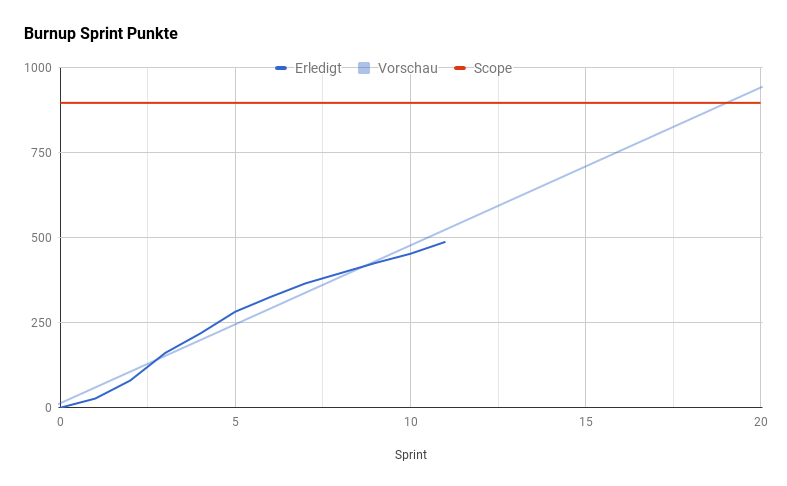
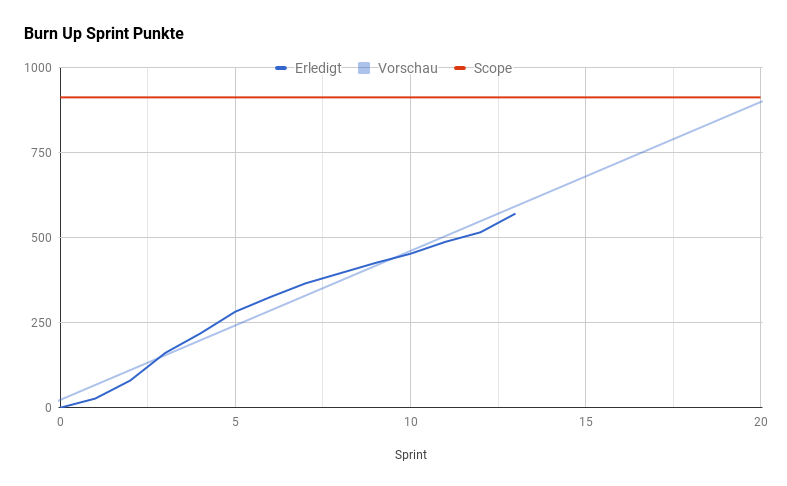
docs: update sprint overview after finishing sprint 13 (#641)
To finalize the sprint overview page adjusted burnup, burndown has to be added. Also due to lack of presentation the protocol and presentation emoji had to be removed.

This closes #560

diff --git a/docs/sprints.md b/docs/sprints.md
@@ -16,9 +16,9 @@
 | 10 | 2017-06-30 | *Sellout!* | [🎦](sprint-review/sprint_10_review.pdf) | [📝](protocols/2017-07-14-presentation-sprint10-imagic_PICSystem.md) | [📉](sprint-burndown-charts/sprint_10_burndown.png) | [☑](https://github.com/IMSmobile/app/milestone/10?closed=1) |
 | 11 | 2017-07-14 | *Upload to all the Archives!* | [🎦](sprint-review/sprint_11_review.pdf) | [📝](protocols/2017-07-28-presentation-sprint11-imagic_PICSystem.md) | [📉](sprint-burndown-charts/sprint_11_burndown.png) | [☑](https://github.com/IMSmobile/app/milestone/11?closed=1) |
 | 12 | 2017-07-28 | *Finalize Project!* | [🎦](sprint-review/sprint_12_review.pdf) | [📝](protocols/2017-08-11-presentation-sprint12-imagic_PICSystem.md) | [📉](sprint-burndown-charts/sprint_12_burndown.png) | [☑](https://github.com/IMSmobile/app/milestone/12?closed=1) |
-| 13 | 2017-08-11 | *Go for Gold!* | [🎦](sprint-review/sprint_13_review.pdf) | [📝](protocols/2017-08-25-presentation-sprint13-imagic_PICSystem.md) | [📉](sprint-burndown-charts/sprint_13_burndown.png) | [☑](https://github.com/IMSmobile/app/milestone/13?closed=1) |
+| 13 | 2017-08-11 | *Go for Gold!* | |  | [📉](sprint-burndown-charts/sprint_13_burndown.png) | [☑](https://github.com/IMSmobile/app/milestone/13?closed=1) |
 
 ## Burn Up Chart
-Auf dem Burn Up Chart erkennt man, dass im Backlog noch Arbeit bis zum Sprint 19 vorhanden ist.
+Auf dem Burn Up Chart erkennt man, dass im Backlog noch Arbeit bis zum Sprint 20 vorhanden ist.
 
 ![Burn Up Chart](images/burnup_chart.png)
